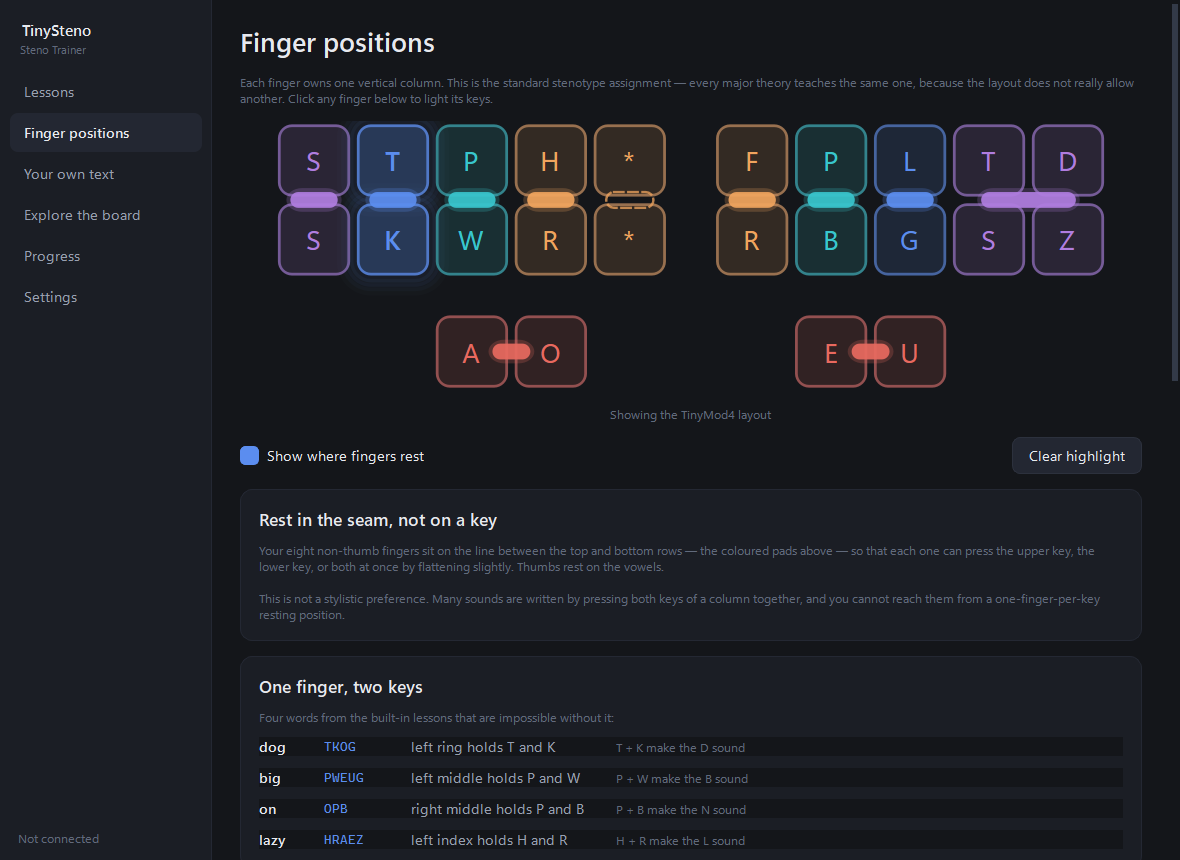
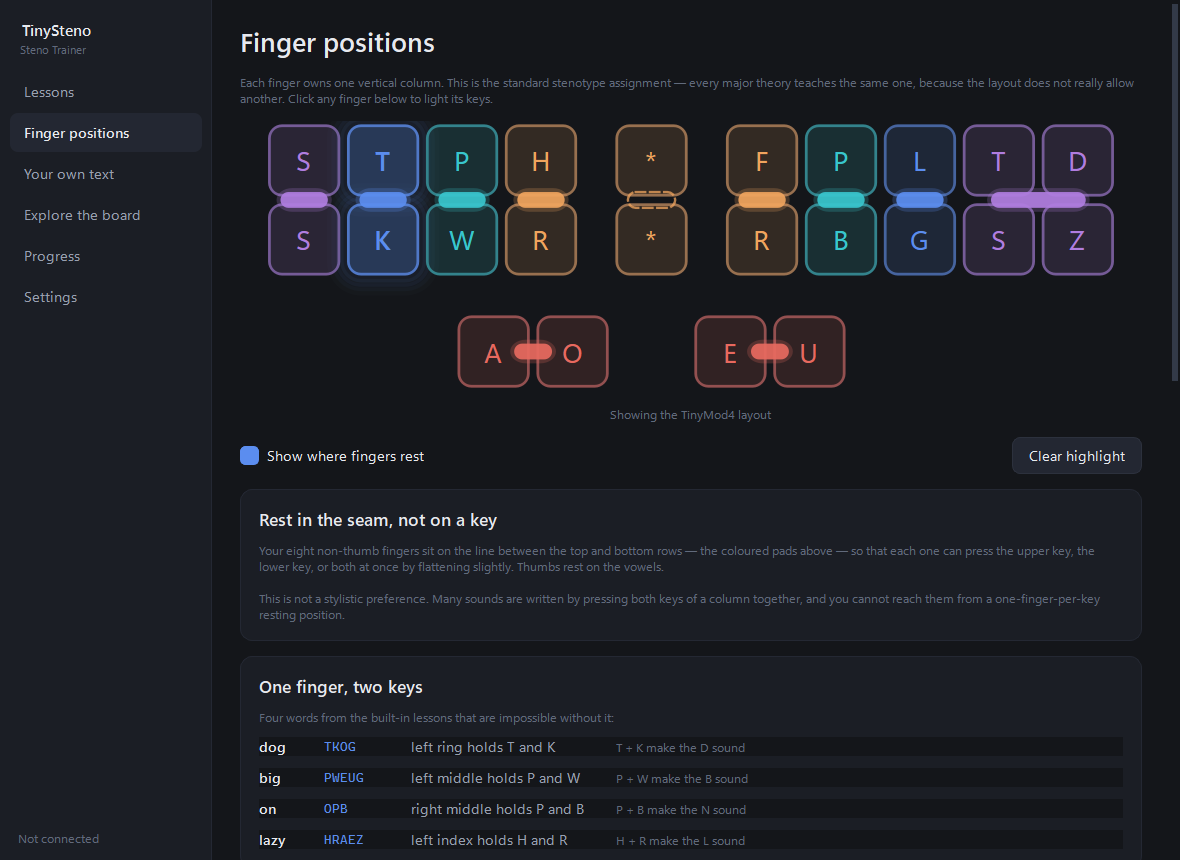
Give the asterisks their own centre column and tuck the thumbs inboard
The asterisk keys sat flush against the left bank, reading as its last
column rather than as the divider between the hands, and the thumbs sat out
under the middle of each bank.

The asterisks now have clear space on both sides, so the centre column stands
alone with nothing beneath it. The thumbs move inboard to tuck against that
column from either side, symmetric about it, which is where thumbs actually
fall. The board widens from 10.55 to 10.8 pitch units as a result.

Applied to all three built-in profiles, including the split board where the
two asterisk columns form one central block.

The geometry regression test guarded the old coordinates, so it correctly
failed. Rather than restate new magic numbers it now asserts the intent: the
asterisk column has clear space either side, no thumb sits beneath it, the
thumbs tuck flush against it, and they are symmetric about its centre. The
rest-position test likewise now asserts that stacked-pair pads land on the
seam and thumb pads land in the gap between their keys, which survives future
layout changes instead of pinning exact numbers.

Changed region(s): [[0.2136, 0.1209, 0.9458, 0.3326], [0.5797, 0.3628, 0.8237, 0.4535], [0.3661, 0.3628, 0.5186, 0.4535]]

diff --git a/tinysteno/board.py b/tinysteno/board.py
@@ -193,10 +193,25 @@ def validate(profile: BoardProfile) -> list[str]:
 # Built-in profiles
 # ---------------------------------------------------------------------------------------
 
-# Horizontal gap between the two banks, and the drop to the thumb row. Baked into the
+# Clear space on each side of the centre asterisk column, so it reads as its own column
+# between the banks rather than as the last key of the left hand. Baked into the
 # coordinates below rather than applied by the renderer.
-_GAP = 0.55
+_STAR_GAP = 0.4
 _THUMB = 2.42
+
+# The thumbs sit inboard, tucked against the asterisk column from either side, which is
+# where thumbs naturally fall. Nothing sits directly beneath the asterisks.
+_LEFT_THUMB_START = 2.4    # A- and O- occupy 2.4-3.4 and 3.4-4.4
+_RIGHT_THUMB_START = 5.4   # -E and -U occupy 5.4-6.4 and 6.4-7.4
+
+
+def _right(col: float) -> float:
+    """Shift a right-bank column clear of the centre asterisk column."""
+    return col + 2 * _STAR_GAP
+
+
+def _star(col: float) -> float:
+    return col + _STAR_GAP
 
 
 def _tinymod4() -> BoardProfile:
@@ -205,26 +220,29 @@ def _tinymod4() -> BoardProfile:
     24 physical switches. Both S switches report S- and both star switches report *, the
     way one tall key would on a production stenotype.
     """
-    rows = (
-        # (canonical key, label, column, row, switch)
-        ("S-", "S", 0, 0, "S1-"), ("T-", "T", 1, 0, "T-"), ("P-", "P", 2, 0, "P-"),
-        ("H-", "H", 3, 0, "H-"), ("*", "*", 4, 0, "*1"),
-        ("-F", "F", 5, 0, "-F"), ("-P", "P", 6, 0, "-P"), ("-L", "L", 7, 0, "-L"),
-        ("-T", "T", 8, 0, "-T"), ("-D", "D", 9, 0, "-D"),
-        ("S-", "S", 0, 1, "S2-"), ("K-", "K", 1, 1, "K-"), ("W-", "W", 2, 1, "W-"),
-        ("R-", "R", 3, 1, "R-"), ("*", "*", 4, 1, "*3"),
-        ("-R", "R", 5, 1, "-R"), ("-B", "B", 6, 1, "-B"), ("-G", "G", 7, 1, "-G"),
-        ("-S", "S", 8, 1, "-S"), ("-Z", "Z", 9, 1, "-Z"),
-        ("A-", "A", 2, _THUMB, "A-"), ("O-", "O", 3, _THUMB, "O-"),
-        ("-E", "E", 6, _THUMB, "-E"), ("-U", "U", 7, _THUMB, "-U"),
-    )
     keys = tuple(
-        ProfileKey(
-            key=key, label=label,
-            col=col + (_GAP if col >= 5 else 0),
-            row=row, switch=switch,
+        ProfileKey(key=key, label=label, col=col, row=row, switch=switch)
+        for key, label, col, row, switch in (
+            # Left bank
+            ("S-", "S", 0, 0, "S1-"), ("T-", "T", 1, 0, "T-"),
+            ("P-", "P", 2, 0, "P-"), ("H-", "H", 3, 0, "H-"),
+            ("S-", "S", 0, 1, "S2-"), ("K-", "K", 1, 1, "K-"),
+            ("W-", "W", 2, 1, "W-"), ("R-", "R", 3, 1, "R-"),
+            # Centre column, alone
+            ("*", "*", _star(4), 0, "*1"), ("*", "*", _star(4), 1, "*3"),
+            # Right bank
+            ("-F", "F", _right(5), 0, "-F"), ("-P", "P", _right(6), 0, "-P"),
+            ("-L", "L", _right(7), 0, "-L"), ("-T", "T", _right(8), 0, "-T"),
+            ("-D", "D", _right(9), 0, "-D"),
+            ("-R", "R", _right(5), 1, "-R"), ("-B", "B", _right(6), 1, "-B"),
+            ("-G", "G", _right(7), 1, "-G"), ("-S", "S", _right(8), 1, "-S"),
+            ("-Z", "Z", _right(9), 1, "-Z"),
+            # Thumbs, tucked against the centre column from either side
+            ("A-", "A", _LEFT_THUMB_START, _THUMB, "A-"),
+            ("O-", "O", _LEFT_THUMB_START + 1, _THUMB, "O-"),
+            ("-E", "E", _RIGHT_THUMB_START, _THUMB, "-E"),
+            ("-U", "U", _RIGHT_THUMB_START + 1, _THUMB, "-U"),
         )
-        for key, label, col, row, switch in rows
     )
     return BoardProfile(
         id="tinymod4",
@@ -253,10 +271,10 @@ def _standard_stenotype() -> BoardProfile:
     thumb = home + 1.42
 
     keys: list[ProfileKey] = [
-        ProfileKey("#", "#", 0, 0, width=10 + _GAP, height=number_bar_h, switch="#1"),
+        ProfileKey("#", "#", 0, 0, width=_right(10), height=number_bar_h, switch="#1"),
         # S and the asterisk are single tall keys here, spanning both rows.
         ProfileKey("S-", "S", 0, top, height=2, switch="S1-"),
-        ProfileKey("*", "*", 4, top, height=2, switch="*1"),
+        ProfileKey("*", "*", _star(4), top, height=2, switch="*1"),
     ]
     for key, label, col in (("T-", "T", 1), ("P-", "P", 2), ("H-", "H", 3)):
         keys.append(ProfileKey(key, label, col, top, switch=key))
@@ -264,14 +282,16 @@ def _standard_stenotype() -> BoardProfile:
         keys.append(ProfileKey(key, label, col, home, switch=key))
     for key, label, col in (("-F", "F", 5), ("-P", "P", 6), ("-L", "L", 7),
                             ("-T", "T", 8), ("-D", "D", 9)):
-        keys.append(ProfileKey(key, label, col + _GAP, top, switch=key))
+        keys.append(ProfileKey(key, label, _right(col), top, switch=key))
     for key, label, col in (("-R", "R", 5), ("-B", "B", 6), ("-G", "G", 7),
                             ("-S", "S", 8), ("-Z", "Z", 9)):
-        keys.append(ProfileKey(key, label, col + _GAP, home, switch=key))
-    for key, label, col in (("A-", "A", 2), ("O-", "O", 3)):
+        keys.append(ProfileKey(key, label, _right(col), home, switch=key))
+    for key, label, col in (("A-", "A", _LEFT_THUMB_START),
+                            ("O-", "O", _LEFT_THUMB_START + 1)):
         keys.append(ProfileKey(key, label, col, thumb, switch=key))
-    for key, label, col in (("-E", "E", 6), ("-U", "U", 7)):
-        keys.append(ProfileKey(key, label, col + _GAP, thumb, switch=key))
+    for key, label, col in (("-E", "E", _RIGHT_THUMB_START),
+                            ("-U", "U", _RIGHT_THUMB_START + 1)):
+        keys.append(ProfileKey(key, label, col, thumb, switch=key))
 
     return BoardProfile(
         id="standard23",
@@ -293,26 +313,27 @@ def _split_ortho() -> BoardProfile:
     arrangement among DIY steno boards, and is meant as a starting point to adjust rather
     than an exact match for a specific keyboard.
     """
-    gap = 1.1  # Split boards sit further apart than a one-piece board.
-    rows = (
-        ("S-", "S", 0, 0), ("T-", "T", 1, 0), ("P-", "P", 2, 0), ("H-", "H", 3, 0),
-        ("*", "*", 4, 0),
-        ("*", "*", 5, 0), ("-F", "F", 6, 0), ("-P", "P", 7, 0), ("-L", "L", 8, 0),
-        ("-T", "T", 9, 0), ("-D", "D", 10, 0),
-        ("S-", "S", 0, 1), ("K-", "K", 1, 1), ("W-", "W", 2, 1), ("R-", "R", 3, 1),
-        ("*", "*", 4, 1),
-        ("*", "*", 5, 1), ("-R", "R", 6, 1), ("-B", "B", 7, 1), ("-G", "G", 8, 1),
-        ("-S", "S", 9, 1), ("-Z", "Z", 10, 1),
-        ("A-", "A", 3, _THUMB), ("O-", "O", 4, _THUMB),
-        ("-E", "E", 6, _THUMB), ("-U", "U", 7, _THUMB),
-    )
+    # Two asterisk columns sit together in the middle, so the thumbs tuck against the
+    # outside of that block rather than against a single column.
+    star_left, star_right = _star(4), _star(5)
+    right_thumb = star_right + 1
     keys = tuple(
-        ProfileKey(
-            key=key, label=label,
-            col=col + (gap if col >= 5 else 0),
-            row=row,
+        ProfileKey(key=key, label=label, col=col, row=row)
+        for key, label, col, row in (
+            ("S-", "S", 0, 0), ("T-", "T", 1, 0), ("P-", "P", 2, 0), ("H-", "H", 3, 0),
+            ("S-", "S", 0, 1), ("K-", "K", 1, 1), ("W-", "W", 2, 1), ("R-", "R", 3, 1),
+            ("*", "*", star_left, 0), ("*", "*", star_right, 0),
+            ("*", "*", star_left, 1), ("*", "*", star_right, 1),
+            ("-F", "F", _right(6), 0), ("-P", "P", _right(7), 0),
+            ("-L", "L", _right(8), 0), ("-T", "T", _right(9), 0),
+            ("-D", "D", _right(10), 0),
+            ("-R", "R", _right(6), 1), ("-B", "B", _right(7), 1),
+            ("-G", "G", _right(8), 1), ("-S", "S", _right(9), 1),
+            ("-Z", "Z", _right(10), 1),
+            ("A-", "A", _LEFT_THUMB_START, _THUMB),
+            ("O-", "O", _LEFT_THUMB_START + 1, _THUMB),
+            ("-E", "E", right_thumb, _THUMB), ("-U", "U", right_thumb + 1, _THUMB),
         )
-        for key, label, col, row in rows
     )
     return BoardProfile(
         id="split-ortho",

diff --git a/tests.py b/tests.py
@@ -216,33 +216,62 @@ check("tinymod4 exposes 22 distinct steno keys",
       len(TINYMOD.steno_keys) == 22, str(len(TINYMOD.steno_keys)))
 check("both S switches report S-", len(TINYMOD.keys_for("S-")) == 2)
 check("both star switches report *", len(TINYMOD.keys_for("*")) == 2)
-check("tinymod4 extents are unchanged",
-      abs(TINYMOD.width - 10.55) < 1e-9 and abs(TINYMOD.height - 3.42) < 1e-9,
+# 10 columns plus the clear space either side of the centre asterisk column. Widened
+# deliberately when the asterisks were separated out; a change here that was not intended
+# means the layout has drifted.
+check("tinymod4 extents are as intended",
+      abs(TINYMOD.width - 10.8) < 1e-9 and abs(TINYMOD.height - 3.42) < 1e-9,
       f"{TINYMOD.width} x {TINYMOD.height}")
 
-# The geometry the renderer used before profiles existed, reproduced from the old
-# constants. A regression here means the TinyMod4 view has silently shifted.
-_OLD_GUTTER, _OLD_THUMB_DROP = 0.55, 0.42
-_OLD_LAYOUT = {
-    ("S-", "S1-"): (0, 0), ("T-", "T-"): (1, 0), ("P-", "P-"): (2, 0),
-    ("H-", "H-"): (3, 0), ("*", "*1"): (4, 0),
-    ("-F", "-F"): (5, 0), ("-P", "-P"): (6, 0), ("-L", "-L"): (7, 0),
-    ("-T", "-T"): (8, 0), ("-D", "-D"): (9, 0),
-    ("S-", "S2-"): (0, 1), ("K-", "K-"): (1, 1), ("W-", "W-"): (2, 1),
-    ("R-", "R-"): (3, 1), ("*", "*3"): (4, 1),
-    ("-R", "-R"): (5, 1), ("-B", "-B"): (6, 1), ("-G", "-G"): (7, 1),
-    ("-S", "-S"): (8, 1), ("-Z", "-Z"): (9, 1),
-    ("A-", "A-"): (2, 2), ("O-", "O-"): (3, 2),
-    ("-E", "-E"): (6, 2), ("-U", "-U"): (7, 2),
-}
-_expected_layout = {
-    key: (col + (_OLD_GUTTER if col > 4 else 0), row + (_OLD_THUMB_DROP if row == 2 else 0))
-    for key, (col, row) in _OLD_LAYOUT.items()
-}
-_actual_layout = {(k.key, k.switch): (k.col, k.row) for k in TINYMOD.keys}
-check("tinymod4 geometry matches the pre-profile layout exactly",
-      _actual_layout == _expected_layout,
-      str(sorted(set(_expected_layout.items()) ^ set(_actual_layout.items()))[:2]))
+section("Board geometry — the asterisk column stands alone, thumbs tuck against it")
+
+
+def _span(keys):
+    """(left, right) x-extent of a group of keys."""
+    return min(k.col for k in keys), max(k.col + k.width for k in keys)
+
+
+for _profile in BUILTIN_PROFILES:
+    _stars = _profile.keys_for("*")
+    _thumbs = [k for k in _profile.keys if k.key in ("A-", "O-", "-E", "-U")]
+    if not _stars or not _thumbs:
+        continue
+
+    _star_l, _star_r = _span(_stars)
+    _others = [
+        k for k in _profile.keys
+        if k.key != "*" and k not in _thumbs and k.key != "#"
+    ]
+
+    # Nothing may sit inside the asterisk column's horizontal band.
+    _intruders = [
+        k.key for k in _others if k.col < _star_r and _star_l < k.col + k.width
+    ]
+    check(f"{_profile.id}: the asterisk column has clear space either side",
+          not _intruders, str(sorted(set(_intruders))))
+
+    # Nor directly beneath it, which is what "by themselves" means.
+    _under = [k.key for k in _thumbs if k.col < _star_r and _star_l < k.col + k.width]
+    check(f"{_profile.id}: no thumb sits under the asterisks", not _under, str(_under))
+
+    _left_thumbs = [k for k in _thumbs if k.key in ("A-", "O-")]
+    _right_thumbs = [k for k in _thumbs if k.key in ("-E", "-U")]
+    check(f"{_profile.id}: left thumbs tuck against the asterisk column",
+          abs(_span(_left_thumbs)[1] - _star_l) < 1e-9,
+          f"left thumbs end at {_span(_left_thumbs)[1]}, asterisks start at {_star_l}")
+    check(f"{_profile.id}: right thumbs tuck against the asterisk column",
+          abs(_span(_right_thumbs)[0] - _star_r) < 1e-9,
+          f"right thumbs start at {_span(_right_thumbs)[0]}, asterisks end at {_star_r}")
+
+    # Symmetric about the centre of the asterisk block.
+    _thumb_l, _thumb_r = _span(_thumbs)
+    check(f"{_profile.id}: thumbs are symmetric about the asterisks",
+          abs((_thumb_l + _thumb_r) / 2 - (_star_l + _star_r) / 2) < 1e-9)
+
+    # Thumbs sit inboard of the banks they belong to, not out at the edges.
+    check(f"{_profile.id}: thumbs sit inboard of the outer columns",
+          _thumb_l > _span(_profile.keys_for("S-"))[0]
+          and _thumb_r < _span(_profile.keys_for("-Z"))[1])
 
 check("a board reports what it can write", TINYMOD.supports(parse_stroke("KAT")))
 _no_z = BoardProfile(id="t", name="t", keys=tuple(
@@ -319,39 +348,31 @@ check("no double-press line when none is needed",
 check("double-press coaching mentions simultaneity",
       "same time" in fingering.describe_double_presses(parse_stroke("TKOG")))
 
-section("Fingering — rest positions are derived, not hand-placed")
+section("Fingering — rest positions are derived from the board, not hand-placed")
 
-# The positions the widget used before profiles existed, from its _RESTS table run through
-# the old _grid_point(). Deriving them from key centroids must reproduce these exactly.
-_OLD_RESTS = (
-    ("l-pinky", 0.0, 1.0, 1.0), ("l-ring", 1.0, 1.0, 1.0), ("l-middle", 2.0, 1.0, 1.0),
-    ("l-index", 3.0, 1.0, 1.0), ("star", 4.0, 1.0, 1.0), ("r-index", 5.0, 1.0, 1.0),
-    ("r-middle", 6.0, 1.0, 1.0), ("r-ring", 7.0, 1.0, 1.0), ("r-pinky", 8.5, 1.0, 2.0),
-    ("l-thumb", 2.5, -1.0, 0.8), ("r-thumb", 6.5, -1.0, 0.8),
-)
+_rests = {rest.finger.id: rest for rest in fingering.rest_positions(TINYMOD)}
+check("every finger on the board gets a resting position",
+      len(_rests) == 11, str(sorted(_rests)))
 
+# A finger owning a stacked pair should rest on the seam between them, which is the whole
+# point of the guide. That is the boundary row, not the middle of either key.
+for _fid, _seam_row in (("l-ring", 1.0), ("l-middle", 1.0), ("r-index", 1.0),
+                        ("r-middle", 1.0), ("r-pinky", 1.0), ("l-pinky", 1.0)):
+    check(f"{_fid} rests on the seam between the rows",
+          abs(_rests[_fid].y - _seam_row) < 1e-9, f"y={_rests[_fid].y}")
 
-def _old_point(col, row):
-    x = col + 0.5 + (_OLD_GUTTER if col > 4 else 0)
-    y = (2 + _OLD_THUMB_DROP + 0.5) if row < 0 else row
-    return x, y
+# A thumb pad belongs in the gap between its two keys, so it covers neither label.
+for _fid, _keys in (("l-thumb", ("A-", "O-")), ("r-thumb", ("-E", "-U"))):
+    _boundary = max(k.col + k.width for k in TINYMOD.keys_for(_keys[0]))
+    check(f"{_fid} rests between its two keys",
+          abs(_rests[_fid].x - _boundary) < 1e-9,
+          f"x={_rests[_fid].x}, boundary={_boundary}")
+    check(f"{_fid} pad stays narrow so it covers no label", _rests[_fid].width <= 0.8)
 
-
-_expected_rests = {
-    fid: (*_old_point(col, row), width) for fid, col, row, width in _OLD_RESTS
-}
-_derived = {
-    rest.finger.id: (rest.x, rest.y, rest.width)
-    for rest in fingering.rest_positions(TINYMOD)
-}
-check("every finger gets a resting position", set(_derived) == set(_expected_rests),
-      str(set(_expected_rests) ^ set(_derived)))
-_mismatched = [
-    fid for fid, expected in _expected_rests.items()
-    if fid in _derived and any(abs(a - b) > 1e-9 for a, b in zip(_derived[fid], expected))
-]
-check("derived positions match the old hand-placed ones exactly",
-      not _mismatched, str(_mismatched))
+check("stacked-pair pads span their column",
+      abs(_rests["l-ring"].width - 1.0) < 1e-9)
+check("the right pinky pad spans both its columns",
+      abs(_rests["r-pinky"].width - 2.0) < 1e-9, str(_rests["r-pinky"].width))
 
 for _profile in BUILTIN_PROFILES[1:]:
     _rests = fingering.rest_positions(_profile)
